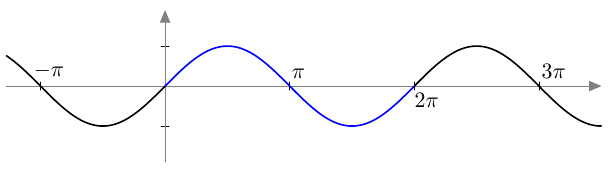
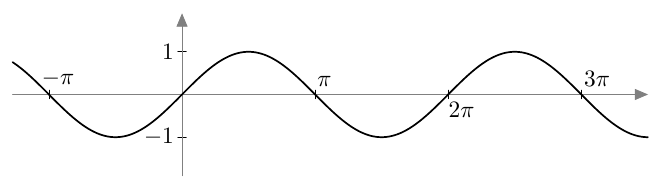
Muoks

diff --git a/kurssit/maa7/luku2/index.html b/kurssit/maa7/luku2/index.html
@@ -434,6 +434,11 @@ topnav: maa7
                     </div>
                 </div>
 
+                <p>
+                    Sinifunktio saa kaikki arvonsa millä tahansa välillä, jonka pituus on jakson pituus $2\pi$. Alla on näkyvissä joitakin esimerkkejä.
+                    <img src="/kurssit/maa7/kuvat/MAA7kuva057.png" style="max-width: 100%; width: auto; height: auto;"/>
+                </p>    
+
             </div>
 
             <div class="close-section">
